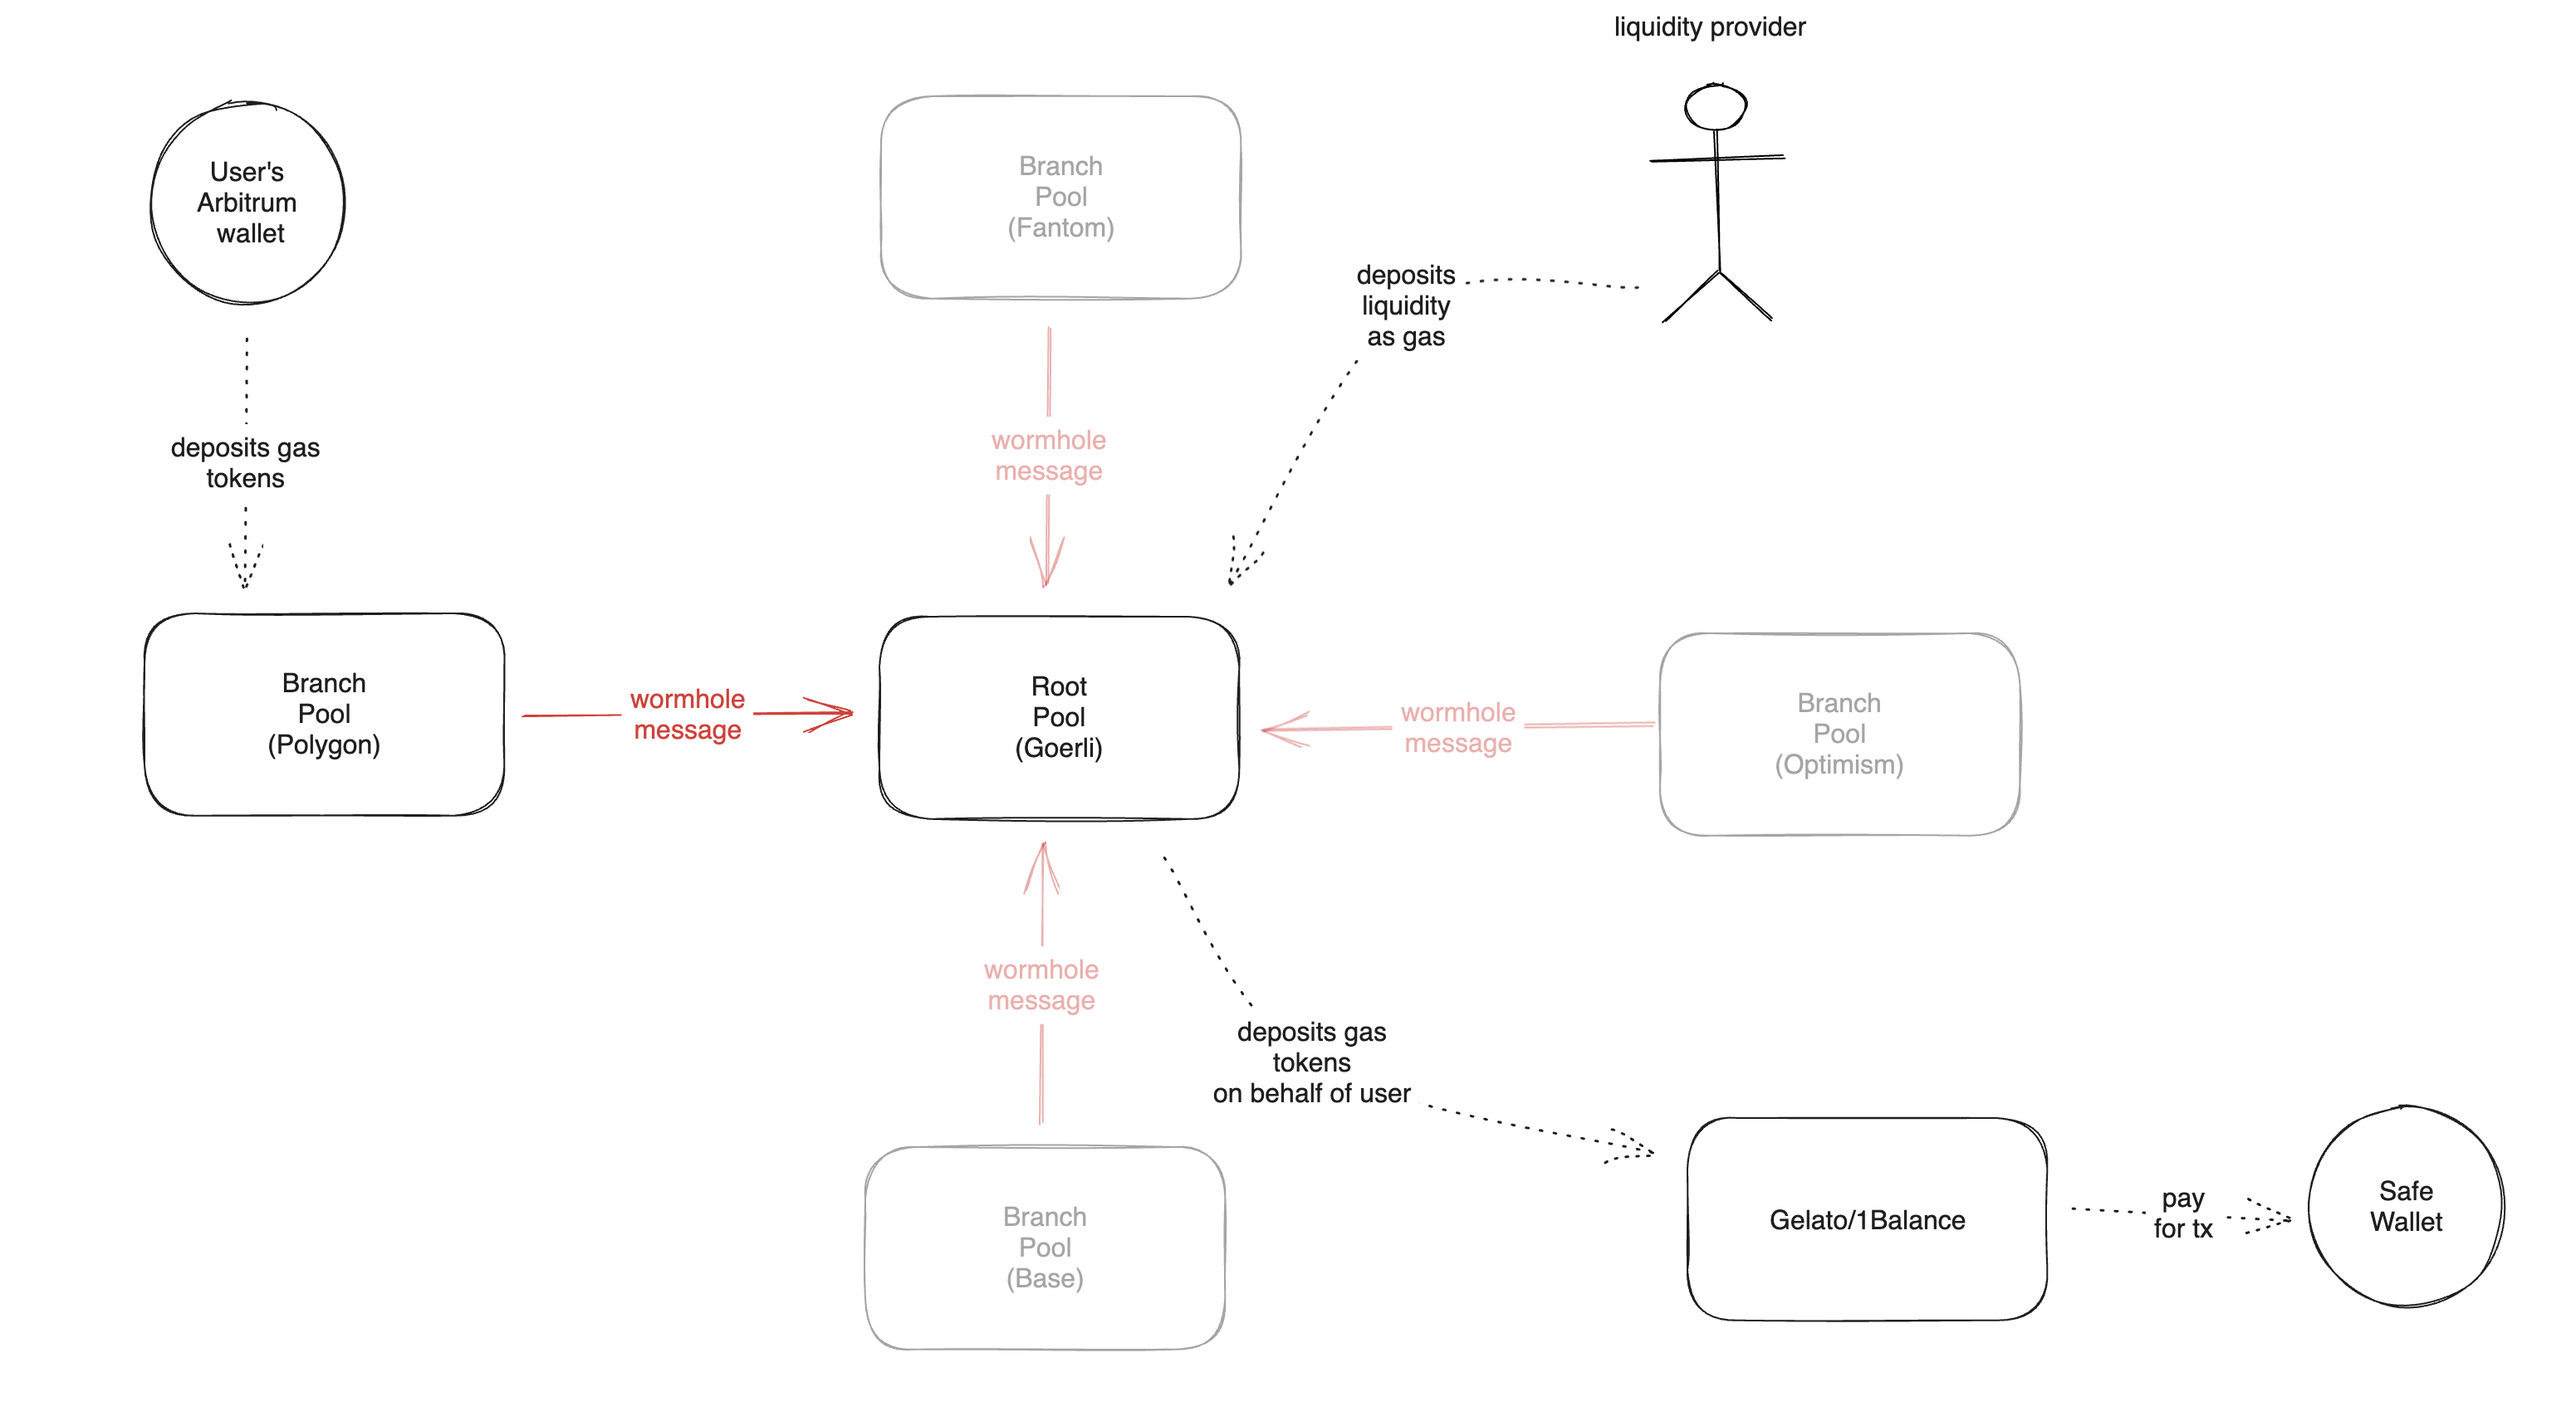
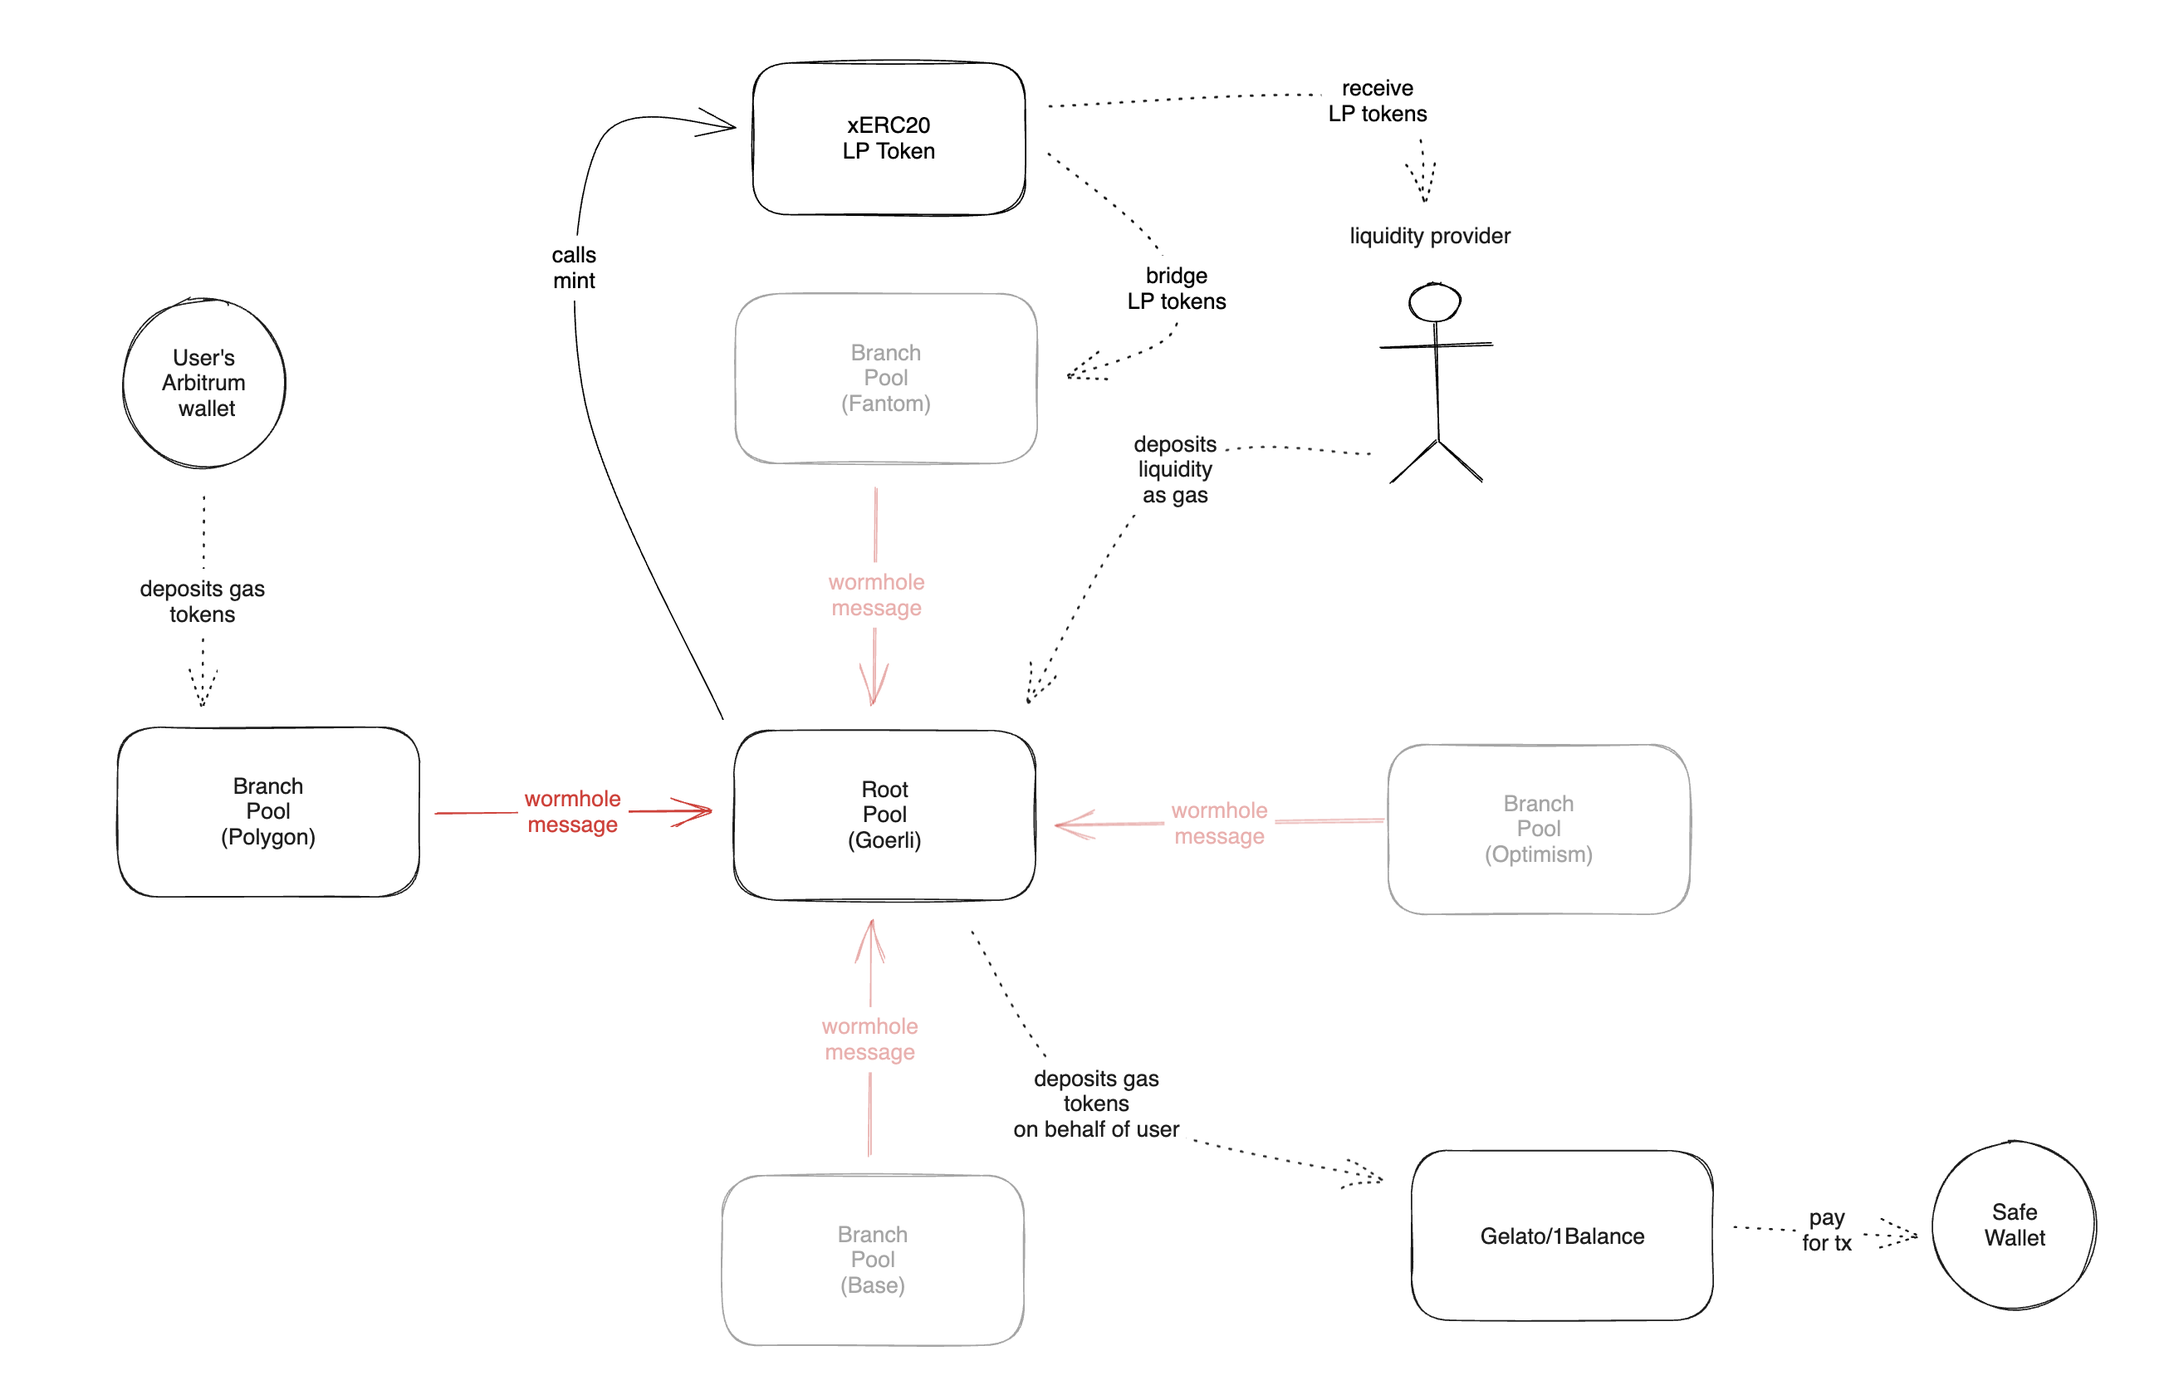
Update readme and diagram

diff --git a/README.MD b/README.MD
@@ -1,5 +1,79 @@
 This is the mono repo for gastly
-[architecture](diagram.png)
+
+# Description
+As web3 users navigate the diverse ecosystems across many chains, we will inevitably accumulate an abundance of disparate wallets, with many different tokens.
+
+The goal of building Gastly is to unify all these wallets & tokens in a task that is ubiquitous across every chain: paying for gas.
+
+Gastly is the glue that enables any of your wallets pay for a transaction, using any token, regardless of the chain.
+
+# Definitions
+- Root Pool
+	- The pool on a home chain (currently Polygon) in which all other branch chains send their gas payments to
+- Branch Pool
+	- The pool on a chain other than the main chain that the user sends their gas token to. 
+- Safe
+    - Smart contract wallet
+- 1Balance
+	- Paymaster for the Safe wallet
+- [xERC20](https://github.com/connext/EIPs/blob/master/EIPS/eip-7281.md)
+    - A bridgable LP token minted to liquidity providers
+    
+# Features
+## Native Asset Pools
+Root and Branch Pools do not rely on a lock and mint mechanism. They instead are liquidity pools that providers directly depost the native token (USDC on Polygon mainnet, goerli Eth on goerli) into. The accounting is done using virtual crediting that is sent through Wormhole
+
+## Dynamic Fee
+Fees are charged based on a [utilization curve] of the Root Pool. Utilization is calculatd as
+```
+Utilization Rate = balanceUsed / gasToken.balanceOf(rootPool)
+```
+where `balanceUsed` is adjusted everytime stable coins are deposited in 1Balance. 
+
+As utilization rate approaches 1 (or, 100%), it means that liquidity on the root pool is being depleted, and branch pool liquidity is increasing. High utilization means users pay higher fees, which also incentivizes liquidity to be 1) rebalanced from the branch pools, and 2) deposited directly into the root pool.
+
+## Dynamic Balancing Pools
+[Diagram](https://raw.githubusercontent.com/ltyu/gastly-mono/master/diagram.png)
+At the heart of Gastly is a hub-and-spoke pool model. When a user pays with Branch Pool tokens, intuitively, the tokens should be sent to the Root Pool. However, this would be costly for users if their tokens were always bridged over.
+
+Instead, it relies on internal accounting to determine how much can be bridged.  Rebalancers are incentivizes through rebalancing fees.
+```
+BranchPool
+LP: 100
+assets: 100
+last known balance of Root: 100
+Bridgable bandwidth of BranchPool (b): 100
+
+RootPool
+LP: 100
+assets: 100
+last known balance of Branch: 100
+Bridgable bandwidth of RootPool (b): 100
+
+==Transfer 50==
+BranchPool
+LP: 100
+assets: 100 + 50 = 150
+last known balance of Root: 100 + 50 = 150
+Bridgable bandwidth of BranchPool (b): 100 - 50 = 50
+
+RootPool
+LP: 100
+assets: 100 - 50 = 50
+last known balance of Branch: 100 - 50 = 50
+Bridgable bandwidth of RootPool (b): 100+ 500 = 150
+```
+
+In the above scenario, 50 tokens are bridged from Branch to Root. This reduces the bandwidth to 50, which mean only 50 more tokens can be bridged. In the Root, the bandwidth has increased to 150, this means up to 150 can be bridged over to Branch. Also to note, that the bandwidth has diverged from the currently liquidity (LP). We can incentivize users to 1) deposit more LP to bring it closer to the bandwidth 1:1, or 2) bridge to Branch
+
+## Account Abstraction
+Gastly uses Safe Accounts with 1Balance to pay for transactions. 1Balance receives tokens from the Root Pool.
+
+## Known issues
+- Incase crosschain fails, there is no withdraw deposit function
+- Gas overages does not get refunded
+- No LP fee curve
+
 
 ## Addresses
 - RootPool 
